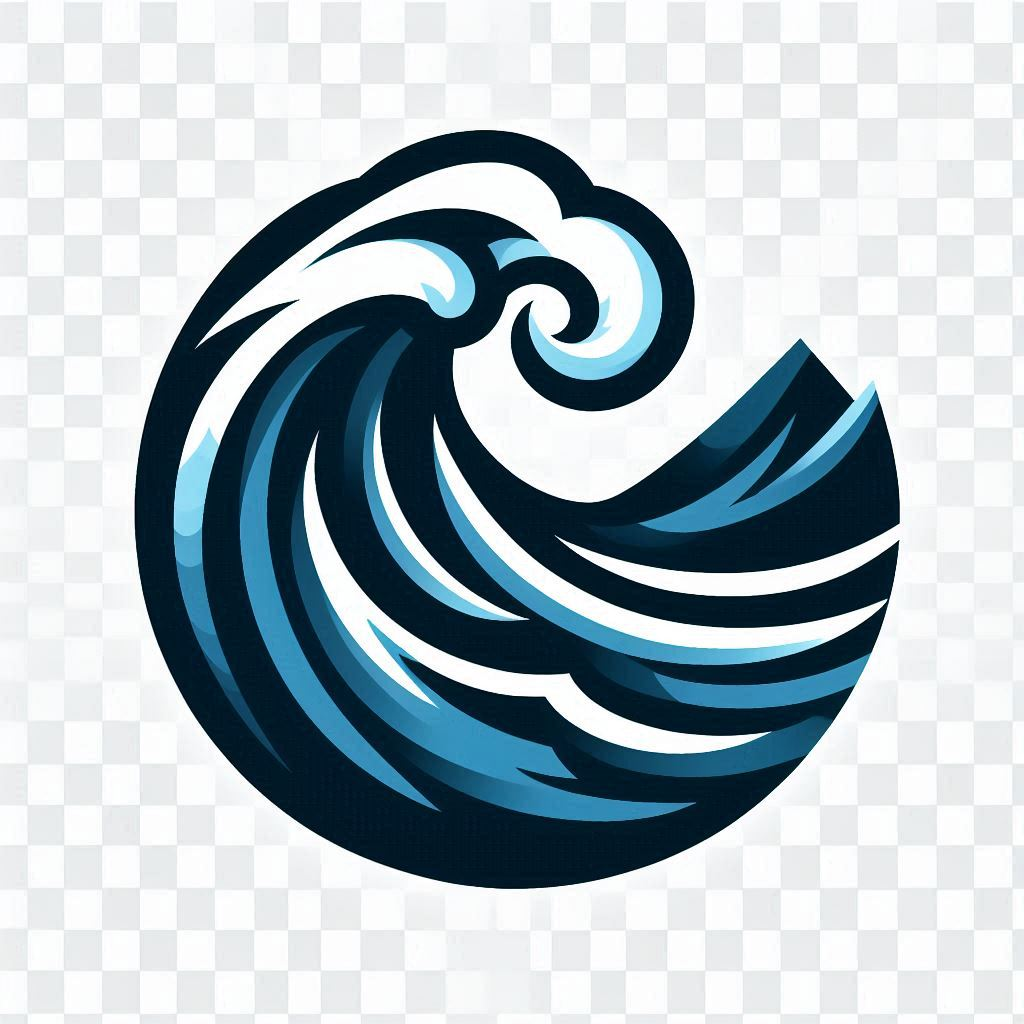
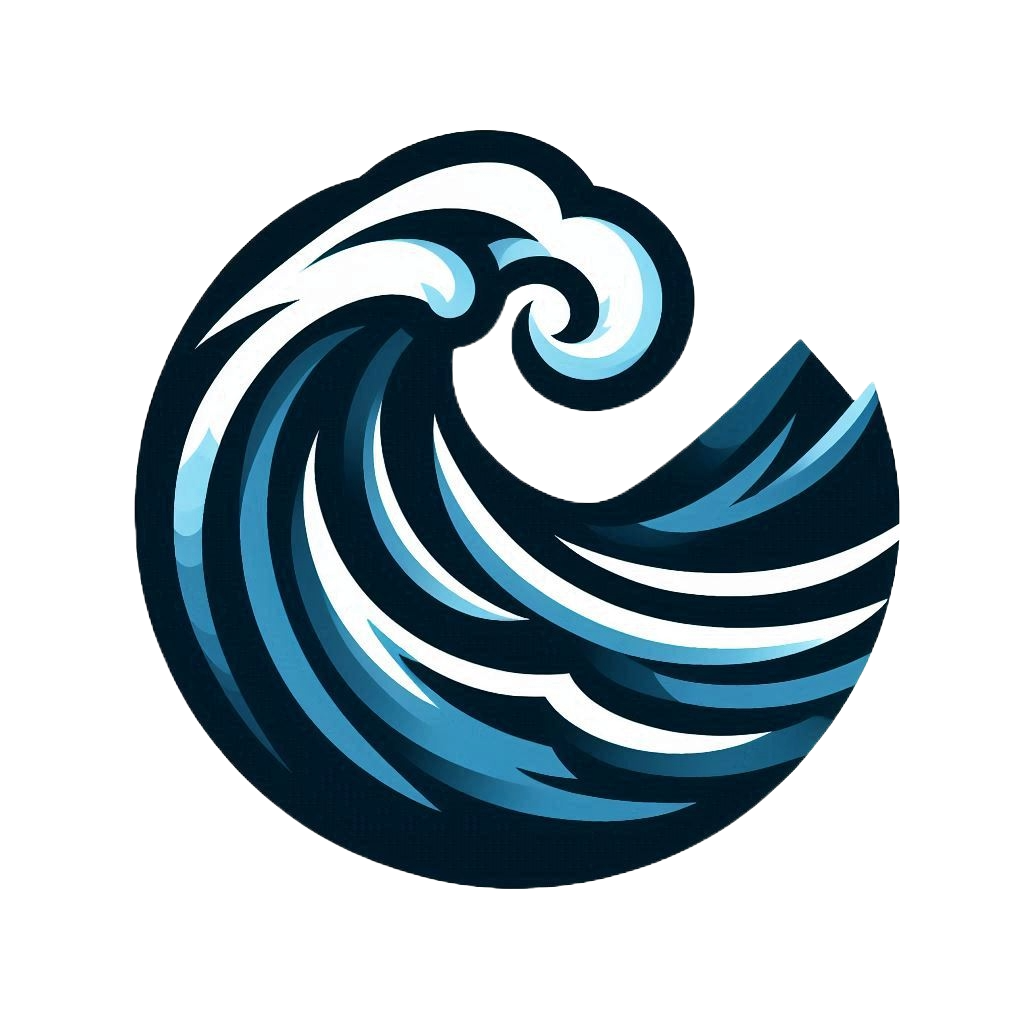
Updates image

diff --git a/portfolio_fe/src/components/HelloWorld.vue b/portfolio_fe/src/components/HelloWorld.vue
@@ -4,7 +4,7 @@
       <v-img
         class="mb-4"
         height="150"
-        src="@/assets/DeepOceanWave.svg"
+        src="@/assets/DeepOceanWave.png"
       />
 
       <div class="text-body-2 font-weight-light mb-n1">Portfolio of</div>
@@ -56,6 +56,7 @@
     { name: 'PyCharm', icon: 'mdi-code-braces' },
     { name: 'VS Code', icon: 'mdi-microsoft-visual-studio-code' },
     { name: 'Azure cloud computing', icon: 'mdi-microsoft-azure' },
+    { name: 'Ubuntu/linux', icon: 'mdi-ubuntu' },
     { name: 'Docker', icon: 'mdi-docker' },
     { name: 'GitHub', icon: 'mdi-github' },
     { name: 'Postgres', icon: 'mdi-database' },
